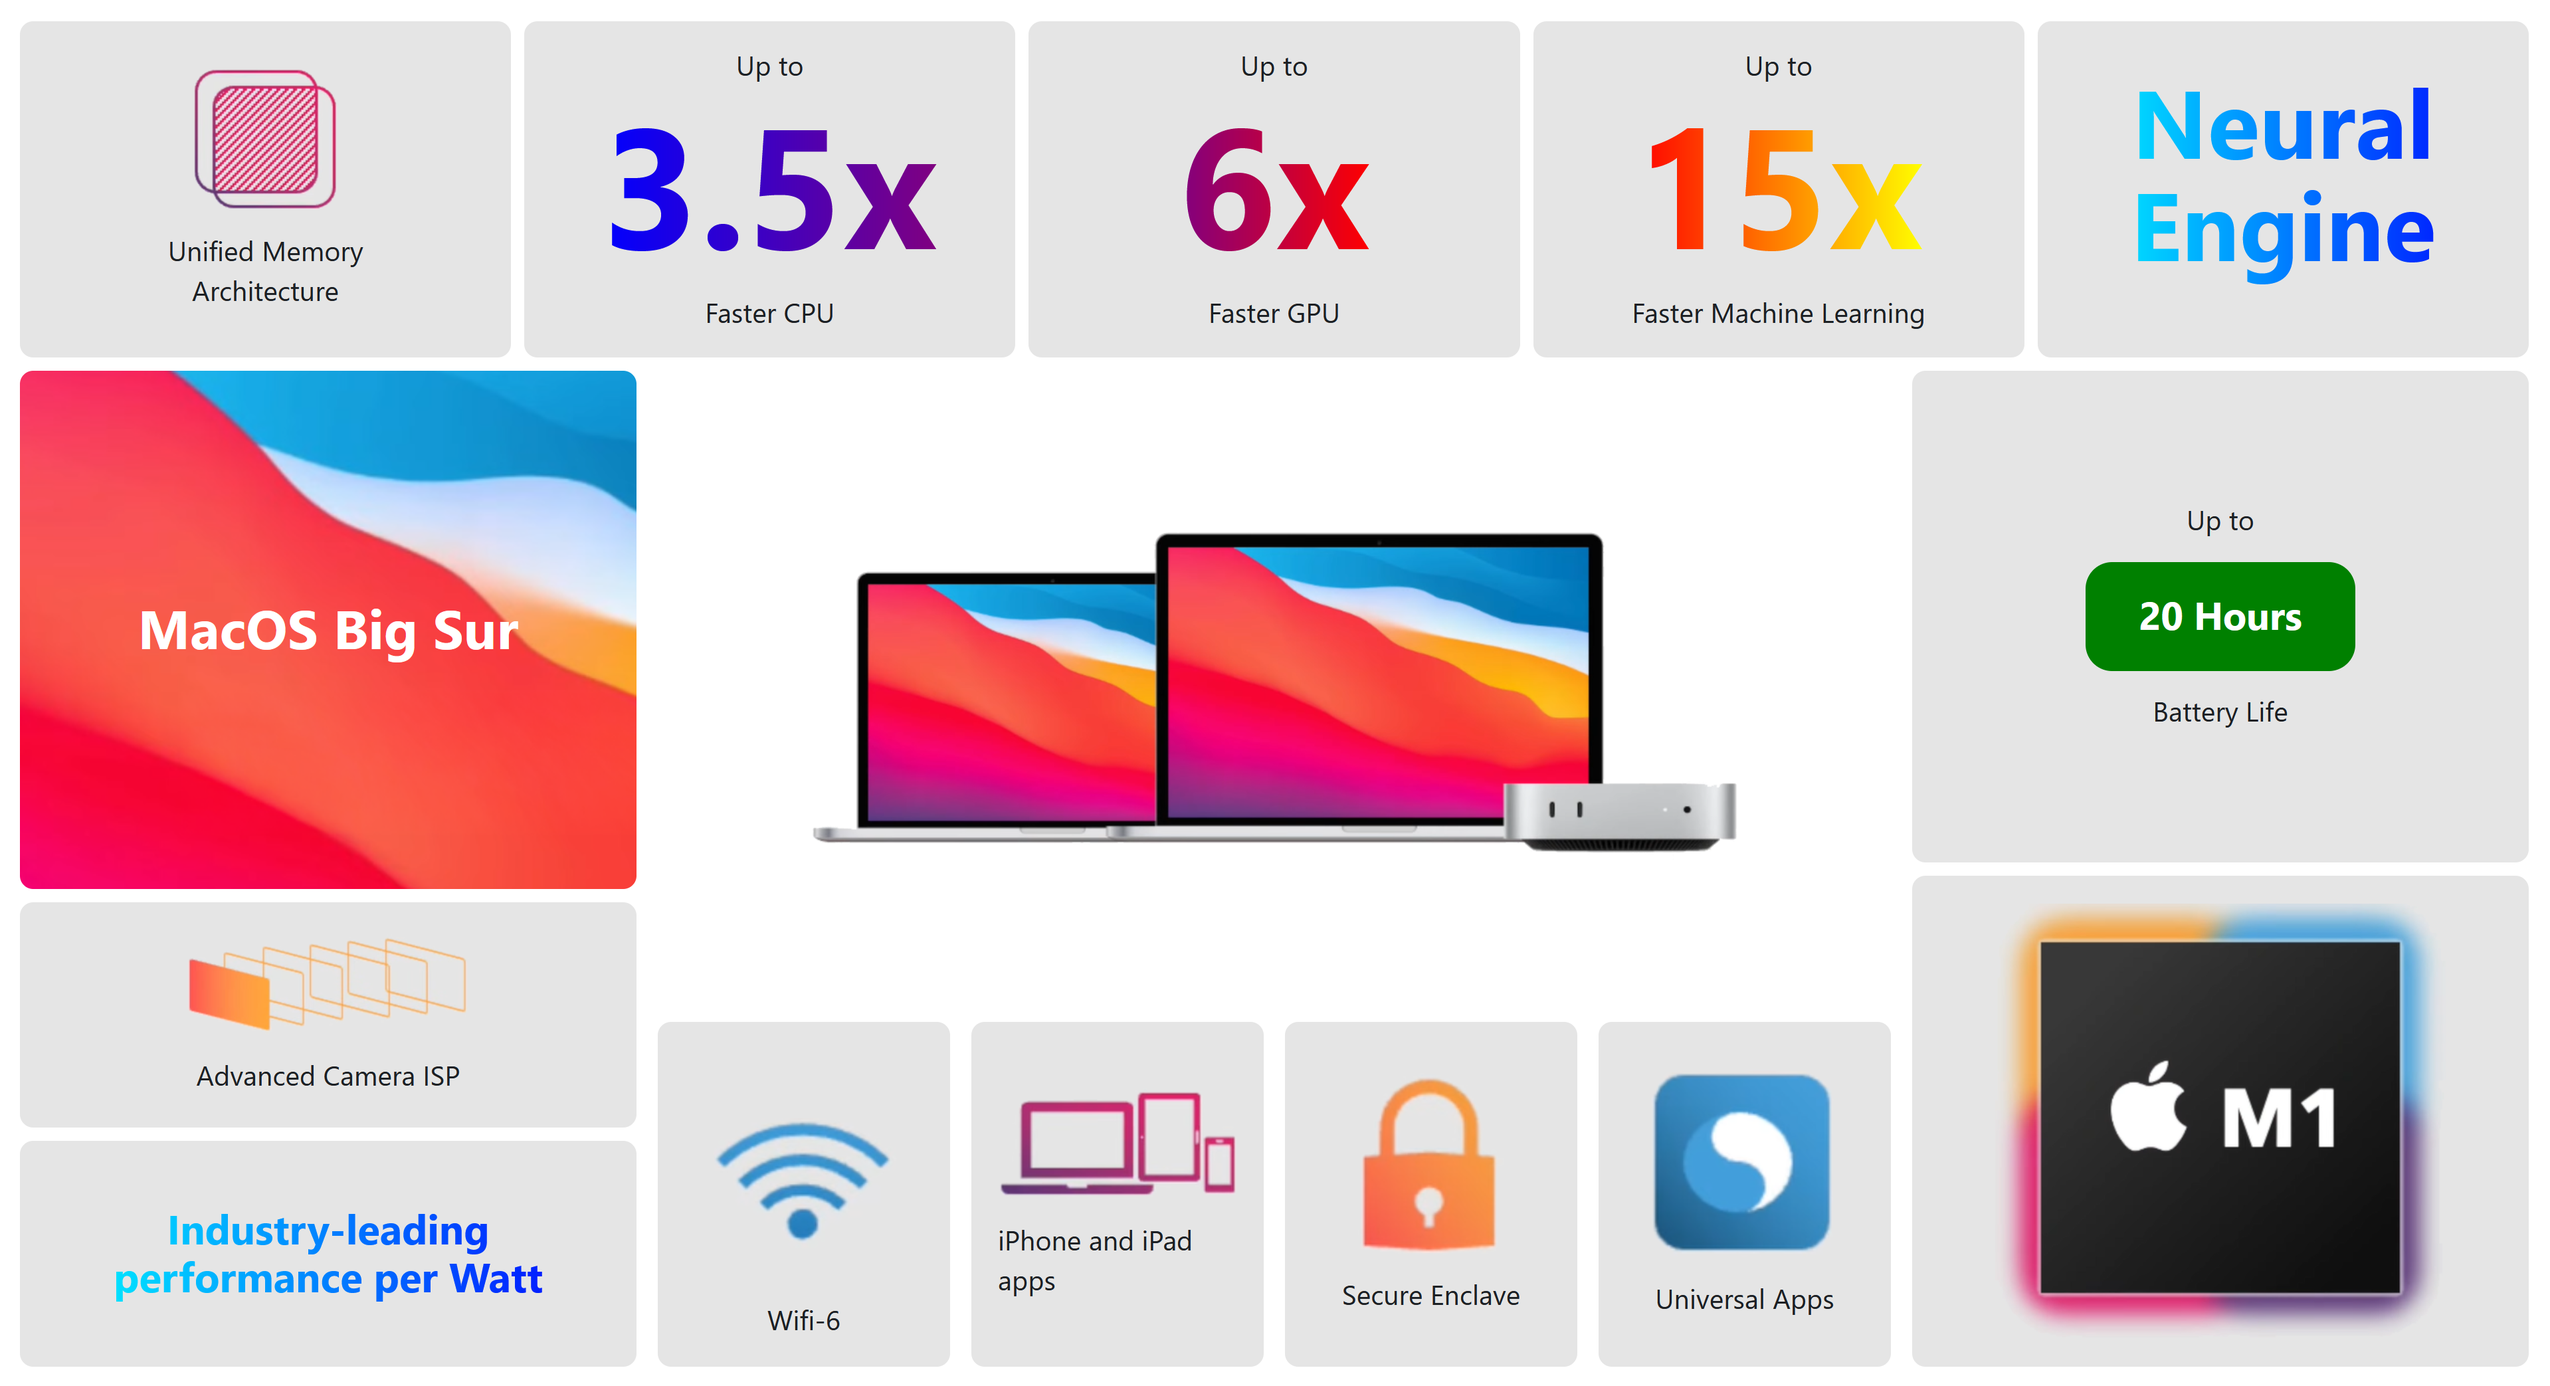
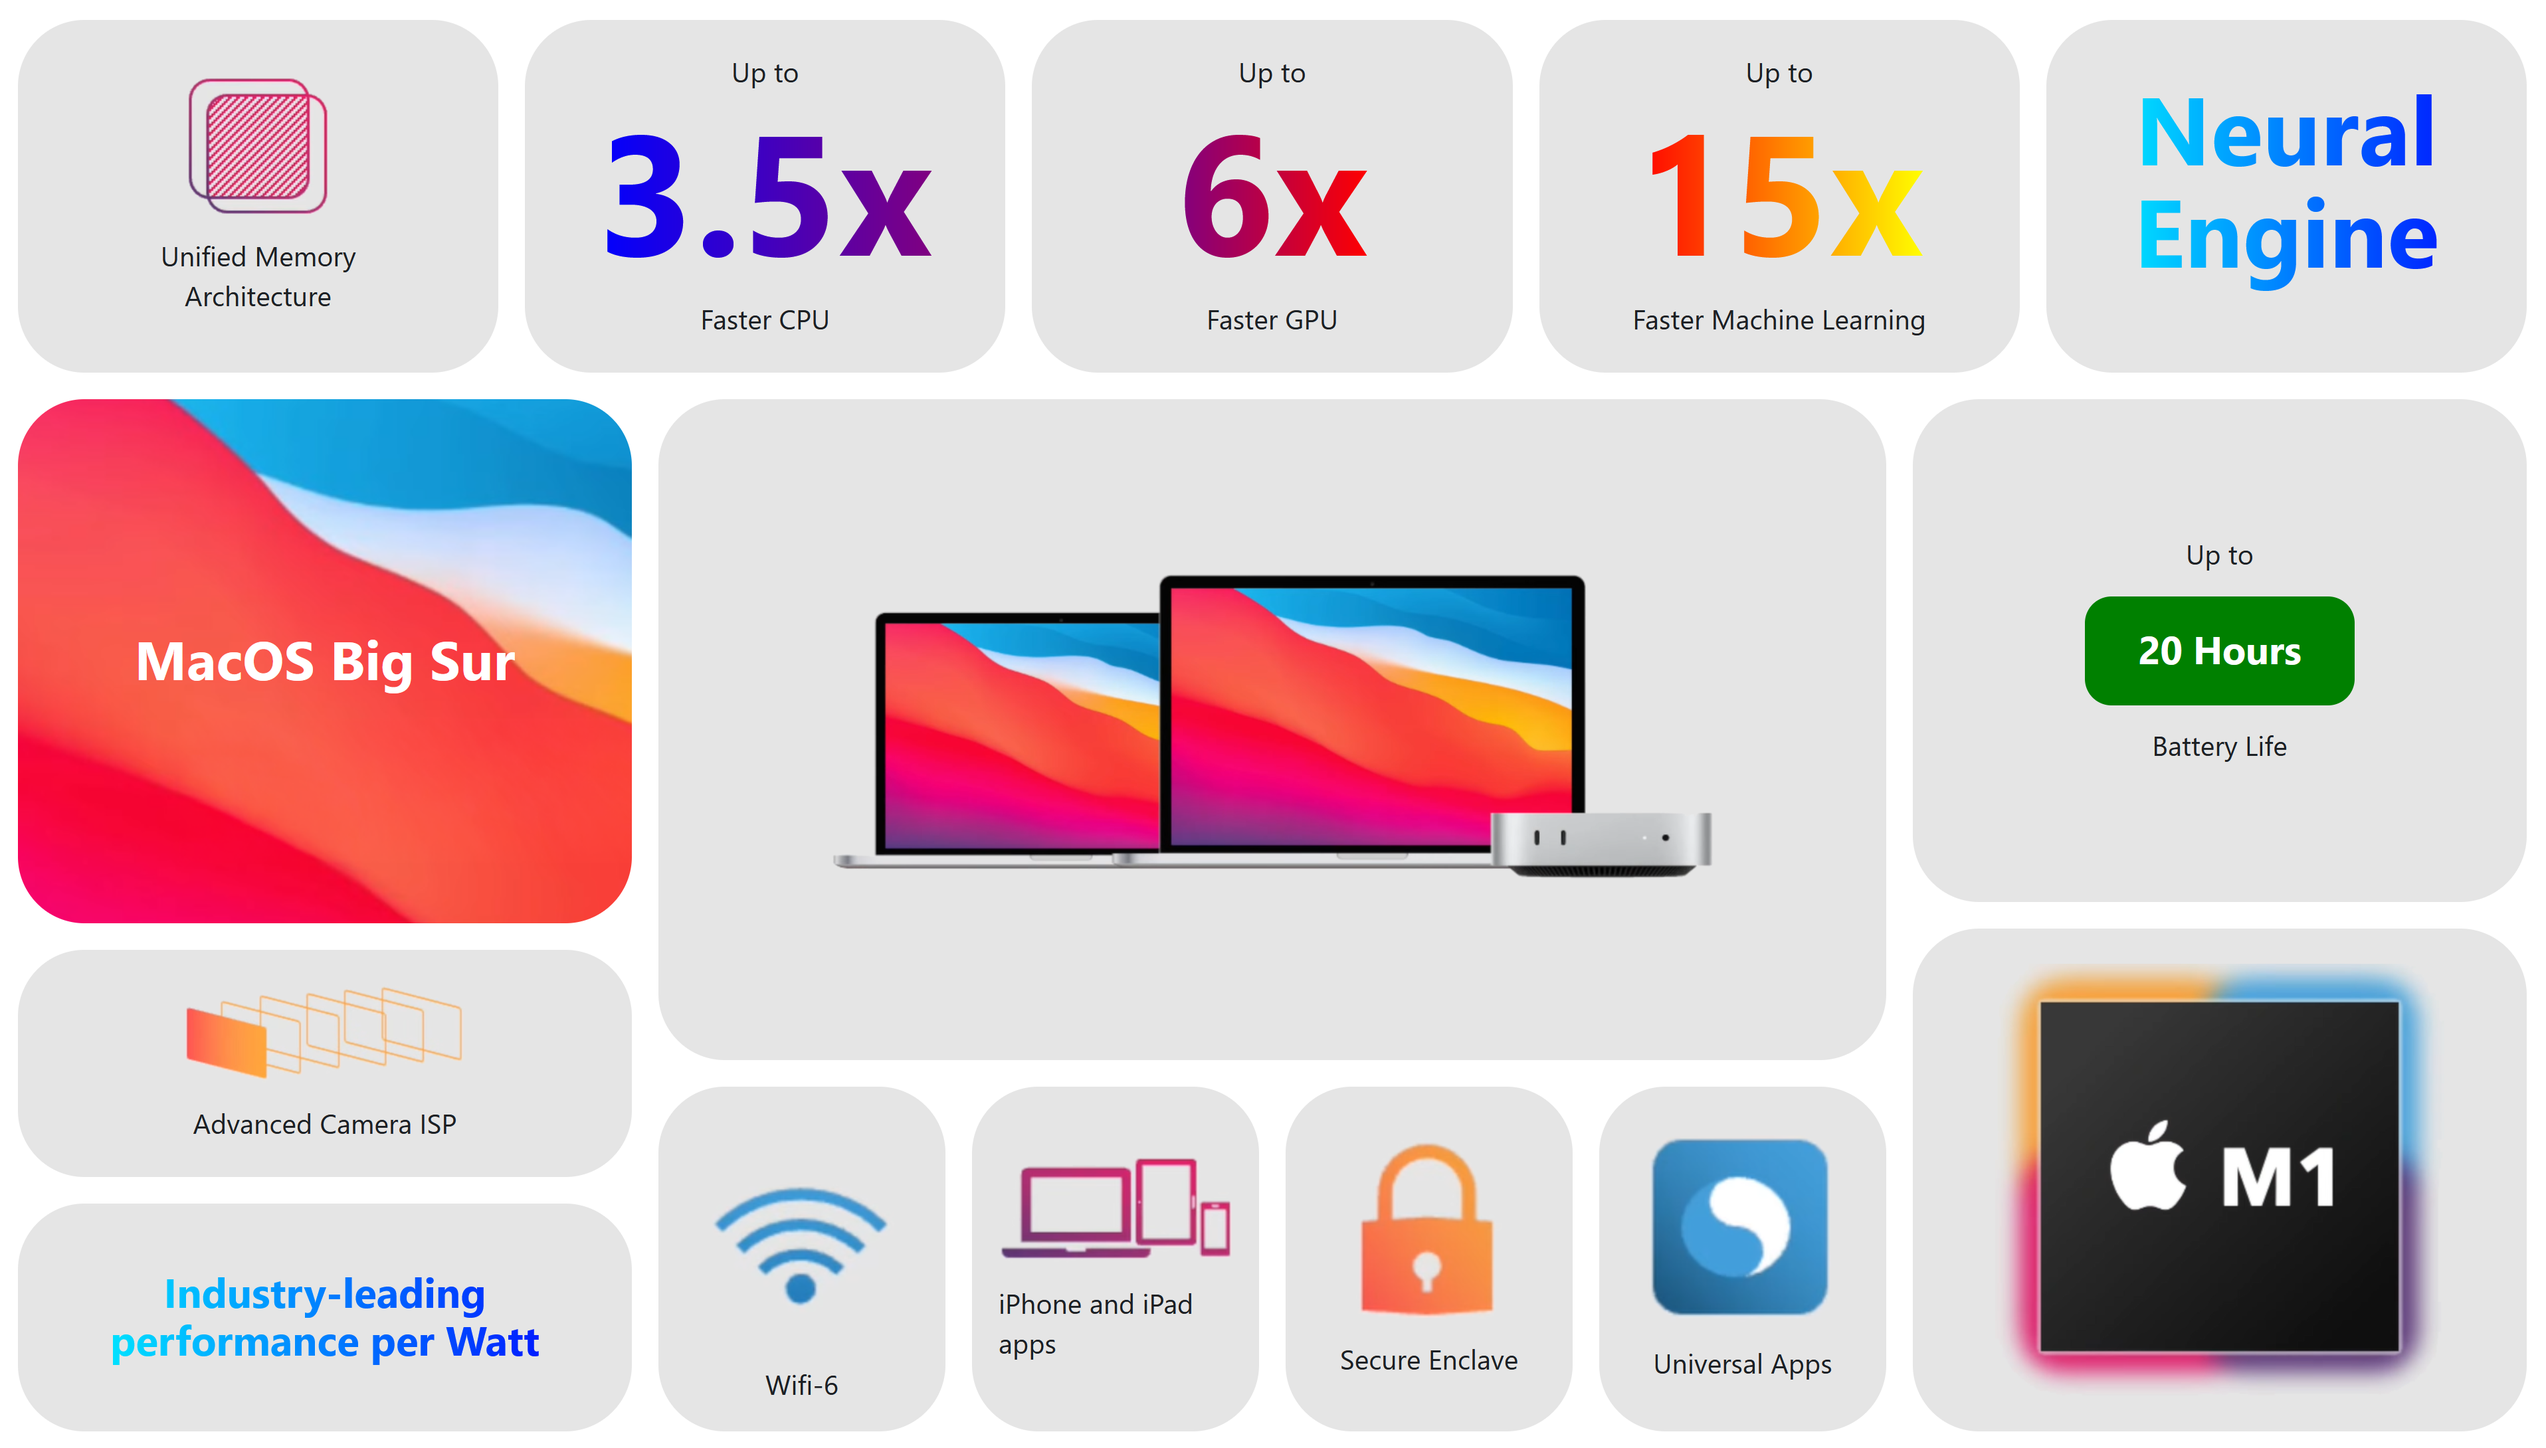
More border_radius, forgot center grey card

diff --git a/reflex_apple_slide/reflex_apple_slide.py b/reflex_apple_slide/reflex_apple_slide.py
@@ -20,7 +20,7 @@ def rx_gray_card(*children, **styles) -> rx.Component:
         justify_content="center",
         gap="0.8rem",
         padding="1rem",
-        border_radius="0.5rem",
+        border_radius="2.5rem",
         background_color=bg_gray_100_css,
         height="100%",
         width="100%",
@@ -99,7 +99,7 @@ def rx_kpi_row() -> rx.Component:
             flex="1 1 0%",
         ),
         flex="none",  # row should not grow nor shrink, keep container fixed height
-        gap="0.5rem",
+        gap="1rem",
         height="25%",
     )
 
@@ -112,7 +112,7 @@ def rx_feature_row() -> rx.Component:
                 flex="3",
                 align_items="center",
                 justify_content="center",
-                border_radius="0.5rem",
+                border_radius="2.5rem",
                 background_image="url('/apple_gradient.png')",
                 color="white",
                 font_weight="600",
@@ -143,17 +143,14 @@ def rx_feature_row() -> rx.Component:
             ),
             flex="1",
             flex_direction="column",
-            gap="0.5rem",
+            gap="1rem",
         ),
         rx.flex(
-            rx.flex(
+            rx_gray_card(
                 rx.image(
                     src="/apple_computers.png",
                     width="75%",
                 ),
-                align_items="center",
-                justify_content="center",
-                flex="2",
             ),
             rx.flex(
                 rx_gray_card(
@@ -173,10 +170,11 @@ def rx_feature_row() -> rx.Component:
                     rx.box("Universal Apps"),
                 ),
                 flex="1",
-                gap="0.8rem",
+                gap="1rem",
             ),
             flex="2",
             flex_direction="column",
+            gap="1rem",
         ),
         rx.flex(
             rx_gray_card(
@@ -203,11 +201,11 @@ def rx_feature_row() -> rx.Component:
             ),
             flex="1",
             flex_direction="column",
-            gap="0.5rem",
+            gap="1rem",
         ),
         # background_color="#93c5fd",
         flex_grow="1",  # row can grow to the rest of space, which is 75%
-        gap="0.8rem",
+        gap="1rem",
     )
 
 
@@ -219,7 +217,7 @@ def index() -> rx.Component:
             flex_direction="column",
             width="100%",
             height="100%",
-            gap="0.5rem",
+            gap="1rem",
             padding="0.8rem",
         ),
         width="100%",

diff --git a/README.md b/README.md
@@ -6,6 +6,15 @@ Built with `rx.Box`, `rx.Flex` and [CSS Props](https://reflex.dev/docs/styling/c
 
 **NOT RESPONSIVE**, feel free to [do it yourself](https://reflex.dev/docs/styling/responsive)
 
-Reference:
+## Run
+
+I prefer doing this in WSL2:
+
+```sh
+uv sync
+uv run reflex run
+```
+
+## Reference
 
 ![](ref/apple_keynote.png)
